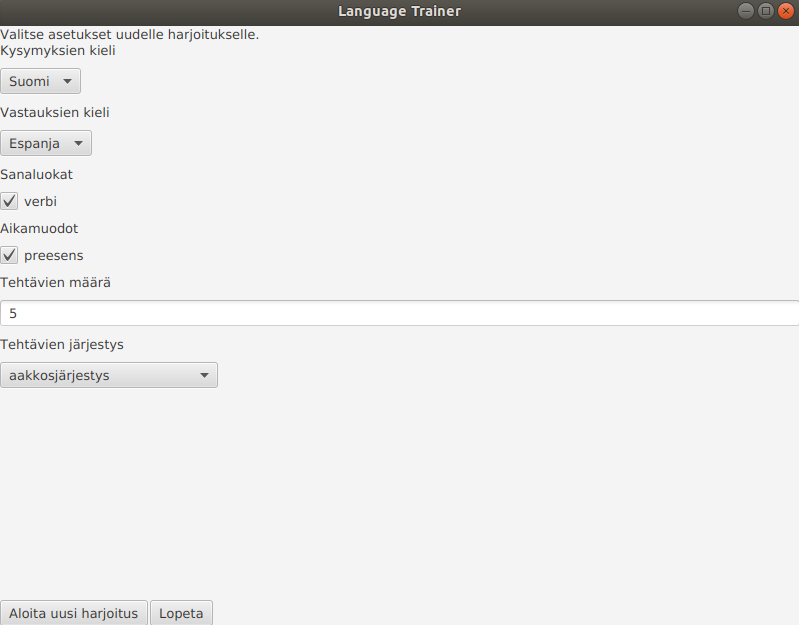
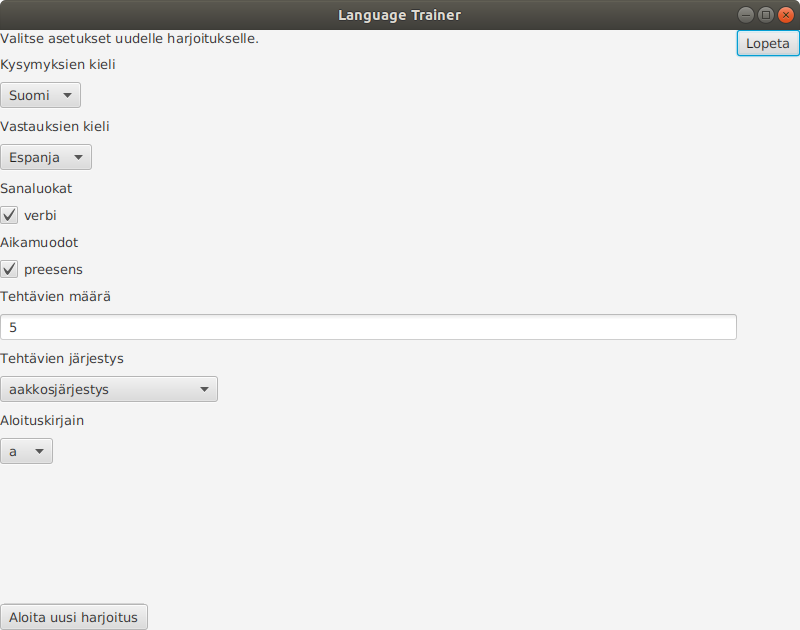
Kirjoitettu dokumentteja.

Changed region(s): [[0.0, 0.0, 1.0, 0.76], [0.0, 0.9424, 0.2703, 1.0]]

diff --git a/dokumentointi/maarittelydokumentti.md b/dokumentointi/maarittelydokumentti.md
@@ -18,35 +18,22 @@ Sovellus aukeaa päävalikkoon. Päävalikosta siirrytään harjoitusnäkymään
 ## Perusversion tarjoama toiminnallisuus
 
 * Perusversiossa on mahdollista opetella ainoastaan verbejä eri aikamuodoissa.
-	* *Tilanne (viikko 5): toteutettu tekstikäyttöliittymällä.*
-	* *Tilanne (viikko 6): toteutettu graafisella käyttöliittymällä.*
 * Päävalikossa käyttäjä voi valita sopivan harjoituksen. Vaihtoehtoja ovat:
 	* Harjoittelun suunta (suomi - espanja tai espanja - suomi)
-	* Harjoituksen sisältämät aikamuodot (preesens, imperfekti, ...)
+	* Sanojen tyypit (perusversiossa vain verbi)
+	* Harjoituksen sisältämät aikamuodot (preesens imperfekti, ...)
 	* Kysymysten määrä
 	* Kysymysten järjestys (satunnainen tai aakkosjärjestys)
+	* Aloituskirjain (esimerkiksi kaikki verbit, joiden alkukirjain on välillä c-Z)
 * Valintojen jälkeen on mahdollista aloittaa harjoituksen tekeminen.
-	* *Tilanne (viikko 5): toteutettu tekstikäyttöliittymällä.*
-	* *Tilanne (viikko 6): toteutettu graafisella käyttöliittymällä.*
 * Harjoitusnäytössä käyttäjä näkee kysymyksen ja voi vastata siihen.
-	* *Tilanne (viikko 5): toteutettu tekstikäyttöliittymällä.*
-	* *Tilanne (viikko 6): toteutettu graafisella käyttöliittymällä.*
 * Tietystä verbistä kysytään kaikki persoonamuodot (esim. istun, istut, istuu, ...).
-	* *Tilanne (viikko 5): toteutettu tekstikäyttöliittymällä.*
-	* *Tilanne (viikko 6): toteutettu graafisella käyttöliittymällä.*
 * Vastauksen jälkeen käyttäjä näkee oikean vastauksen.
-	* *Tilanne (viikko 5): toteutettu tekstikäyttöliittymällä.*
-	* *Tilanne (viikko 6): toteutettu graafisella käyttöliittymällä.*
 * Kysymyksiin vastataan yksi kerrallaan.
-	* *Tilanne (viikko 5): toteutettu tekstikäyttöliittymällä.*
-	* *Tilanne (viikko 6): toteutettu graafisella käyttöliittymällä.*
 * Harjoitus loppuu, kun kaikkiin kysymyksiin on vastattu.
-	* *Tilanne (viikko 5): toteutettu tekstikäyttöliittymällä.*
-	* *Tilanne (viikko 6): toteutettu graafisella käyttöliittymällä.*
 * Käyttäjän on mahdollista lopettaa harjoitus kesken.
-	* *Tilanne (viikko 5): toteutettu tekstikäyttöliittymällä.*
-	* *Tilanne (viikko 6): toteutettu graafisella käyttöliittymällä.*
 * Käyttöliittymän kautta ei voi lisätä uusia verbejä vaan sanaston ylläpito tehdään muokkaamalla tiedostoja.
+* Käyttöliittymän kautta voi lisätä ja muokata tiettyyn sanaan liittyviä muistiinpanoja ja käyttöesimerkkejä.
 
 # Jatkokehitysideoita
 
@@ -58,4 +45,3 @@ Perusversion jälkeen sovellusta mahdollisesti laajennetaan seuraavilla toiminna
 * Sovelluksessa on pistelaskujärjestelmä eli oikeista vastauksista saa pisteitä ja kokonaispisteistä pidetään kirjaa.
 * Harjoituksen voi tallentaa. Toisin sanoen täsmälleen saman harjoituksen voi tehdä uudestaan, vaikka kysymykset olisi valittu satunnaisessa järjestyksessä.
 * Käyttöliittymän kautta voi lisätä uusia sanoja.
-* Käyttöliitymän kautta voi lisätä tiettyyn sanaan muistiinpanoja ja käyttöesimerkkejä.

diff --git a/dokumentointi/testaus.md b/dokumentointi/testaus.md
@@ -1,0 +1,35 @@
+# Testausdokumentti
+
+Ohjelman sovelluslogiikkaa on testattu jatkuvasti kehitystyön aikana automatisoidusti JUnitilla. Käyttöliittymää ja sovellusta kokonaisuutena on testattu melko paljon manuaalisesti.
+
+Testauksessa on käytetty apuna tiedostoa vocabularyForTesting.csv, sillä sovelluksen tällä hetkellä käyttämä sanasto koostuu pelkästään preesensin verbeistä ja näin ollen monissa valinnoissa on vain yksi vaihtoehto. Tiedoston vocabularyForTesting.csv avulla valintoihin on saatu enemmän kuin yksi vaihtoehto. Tiedostoa tarvitaan osaan automaattisista testeistä ja lisäksi sitä on hyödynnetty manuaalisessa käyttöliittymän kautta tapahtuneessa testaamisessa.
+
+## Yksikkö- ja integraatiotestaus
+
+Sovelluslogiikka on pakkauksessa languagetrainer.domain. Tälle luokalle on tehty melko kattavat automaattiset testit, jotka testaavat yksittäisiä luokkia ja jonkin verran myös luokkien välisiä riippuvaisuuksia.
+
+## Testauskattavuus
+
+Sovelluksen automaattisen testauksen rivikattavuus on 93% ja haaraumakattavuus 69%. Luvuissa ei ole mukana käyttöliittymäkerrosta.
+
+![Testauskattavuus](testauskattavuus.png)
+
+## Järjestelmätestaus
+
+Sovelluksen järjestelmätestaus on tehty manuaalisesti kokeilemalla sovelluksen toimintoja käyttöliittymän kautta sekä muokkaamalla tiedostoa vocabulary.csv.
+
+## Asennus ja konfigurointi
+
+Sovellus on haettu ja konfiguroitu käyttöohjeen mukaisesti Ubuntu 18.04.4 LTS -ympäristöön sekä yliopiston Linux-ympäristöön. Sovellus tarvitsee toimiakseen käyttöohjeen mukaiset tiedostot. Jos niitä ei ole, tulostetaan käyttäjälle selkeä ilmoitus tiedostojen puuttumisesta eikä graafinen käyttöliittymä käynnisty. Myös tätä on testattu.
+
+## Toiminnallisuudet
+
+Kaikki toteutetut perustoiminnallisuudet on käyty läpi ja syöttökenttiä on kokeiltu myös virheellisillä syötteillä käyttöliittymässä.
+
+## Sovellukseen jääneet laatuongelmat
+
+Käyttöliittymä on toteutettu perusasetuksilla ja siksi sen visuaalinen ulkoasu ei ole erityisen hyvä. Harjoitustyön aikana on keskitytty lähes täysin toiminnallisuuden toteuttamiseen.
+
+Alussa tavoitteena ollut perustoiminnallisuus on toteutettu ja lisäksi on toteutettu muutama lisätoiminnallisuus, kuten muistiinpanojen tallennus. Koska sovellus jää todelliseen käyttöön myös harjoitustyön toteutuksen jälkeen, sovelluksen toiminnallisuutta on tarkoitus laajentaa myös kurssin päättymisen jälkeen.
+
+DAO-rajapintojen toteutusta harkittiin, mutta koska tiedostoja käsitellään vain kahden metodin kautta, tuntui siltä, että DAO-rakenne ei olisi tässä vaiheessa tuonut juurikaan höytyä.

diff --git a/dokumentointi/kayttoohje.md b/dokumentointi/kayttoohje.md
@@ -1,6 +1,10 @@
 # Käyttöohje
 
-Lataa tiedostot languagetrainer.jar ja espanjanverbilista.csv.
+Lataa tiedostot languagetrainer.jar, vocabulary.csv ja config.properties.
+
+## Konfigurointi
+
+Ohjelma olettaa, että sen käynnistyshakemistossa on tiedosto config.properties ja tehtävien pysyväistallennukseen käytettävä tiedosto. Tallennukseen käytettävän tiedoston nimi määritetään tiedostossa config.properties ja sen nimi on oletuksena vocabulary.csv. Ohjelman käyttäminen oletusasetuksilla siis onnistuu lataamalla yllä mainitut kolme tiedostoa samaan hakemistoon.
 
 ## Ohjelman käynnistäminen
 
@@ -12,7 +16,7 @@ java -jar languagetrainer.jar
 
 ## Ohjelman käyttäminen
 
-Sovellus käynnistyy näkymään, jossa voi valita sopivat vaihtoehdot uudelle harjoitukselle.
+Ohjelma käynnistyy näkymään, jossa voi valita sopivat vaihtoehdot uudelle harjoitukselle. Aloituskirjaimen valinta tarkoittaa sitä, että tehtäviin valitaan vain aloituskirjaimesta alkaen aakkosjärjestyksessä eteenpäin olevat espanjankieliset sanat. Jos harjoitukseen valitaan kaikki mahdolliset ohjelman sanastossa olevat sanat, valitaan aloituskirjaimeksi oletus ole a.
 
 ![Aloitusnäkymä](kayttoliittyma1.png)
 
@@ -20,6 +24,4 @@ Tämän jälkeen painetaan nappia "Aloita uusi harjoitus", jonka jälkeen näkym
 
 ![Harjoitusnäkymä](kayttoliittyma2.png)
 
-Harjoitusnäkymässä vastataan tehtävän kysymykseen. Vastaukset saa näkyville painamalla nappia "Näytä vastaukset". Seuraavan tehtävän saa näkyviin painamalla nappia "Seuraava tehtävä". Harjoituksen tekeminen lopetetaan painamalla nappia "Lopeta harjoitus" ja sovellus palaa takaisin aloitusnäkymään. Aloitusnäkymässä sovelluksen käytön voi lopettaa painamalla nappia "Lopeta".
-
-
+Harjoitusnäkymässä vastataan tehtävän kysymykseen. Vastaukset saa näkyville painamalla nappia "Näytä vastaukset". Seuraavan tehtävän saa näkyviin painamalla nappia "Seuraava tehtävä". Jokaisen tehtävään voi tallentaa muistiinpanoja eli esimerkiksi lauseen, jossa tehtävän sanaa käytetään tai sanan synonyymeja. Muistiinpanot tallennetaan painamalla napppia "Tallenna muistiinpano". Harjoituksen tekeminen lopetetaan painamalla nappia "Lopeta harjoitus" ja sovellus palaa takaisin aloitusnäkymään. Aloitusnäkymässä sovelluksen käytön voi lopettaa painamalla nappia "Lopeta".
